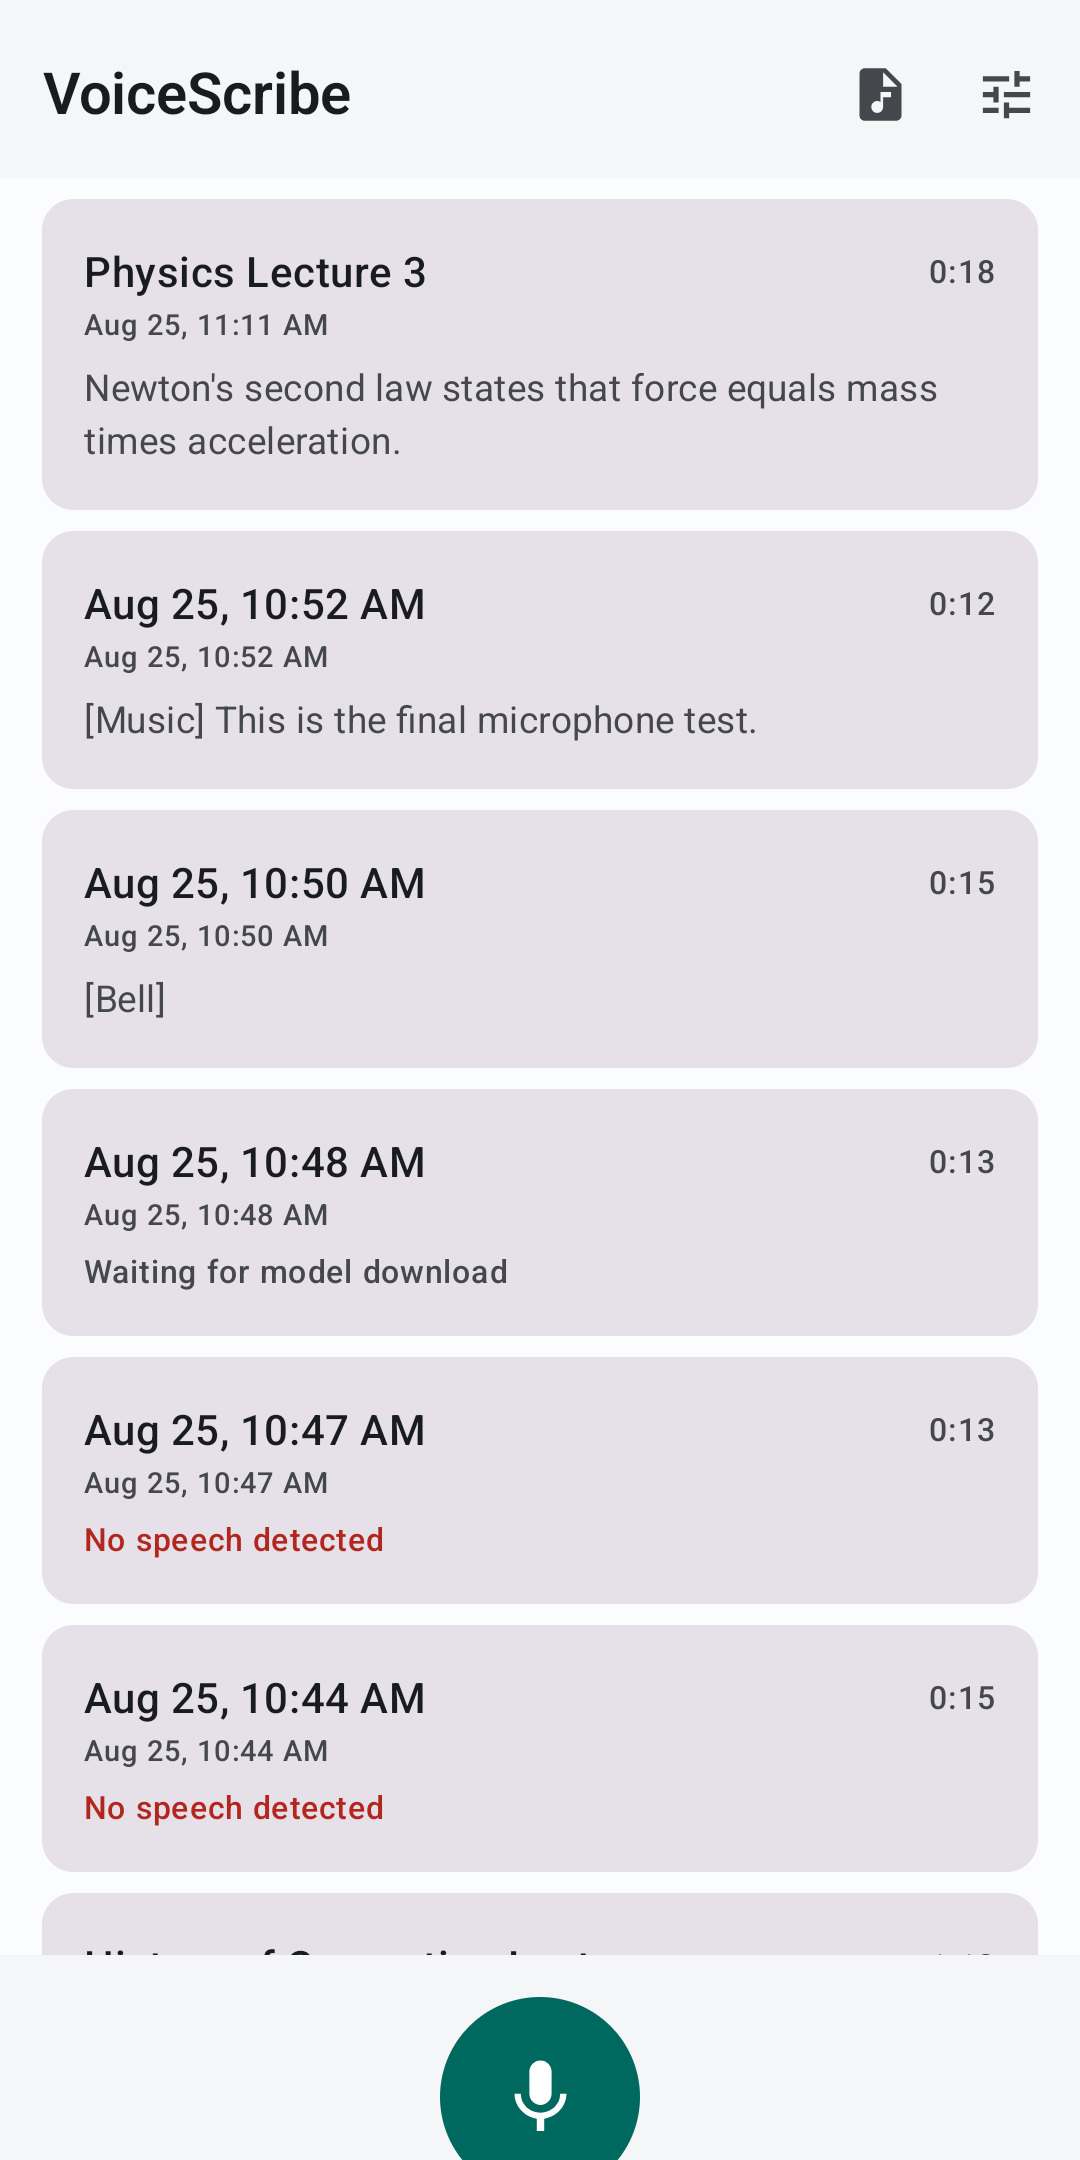
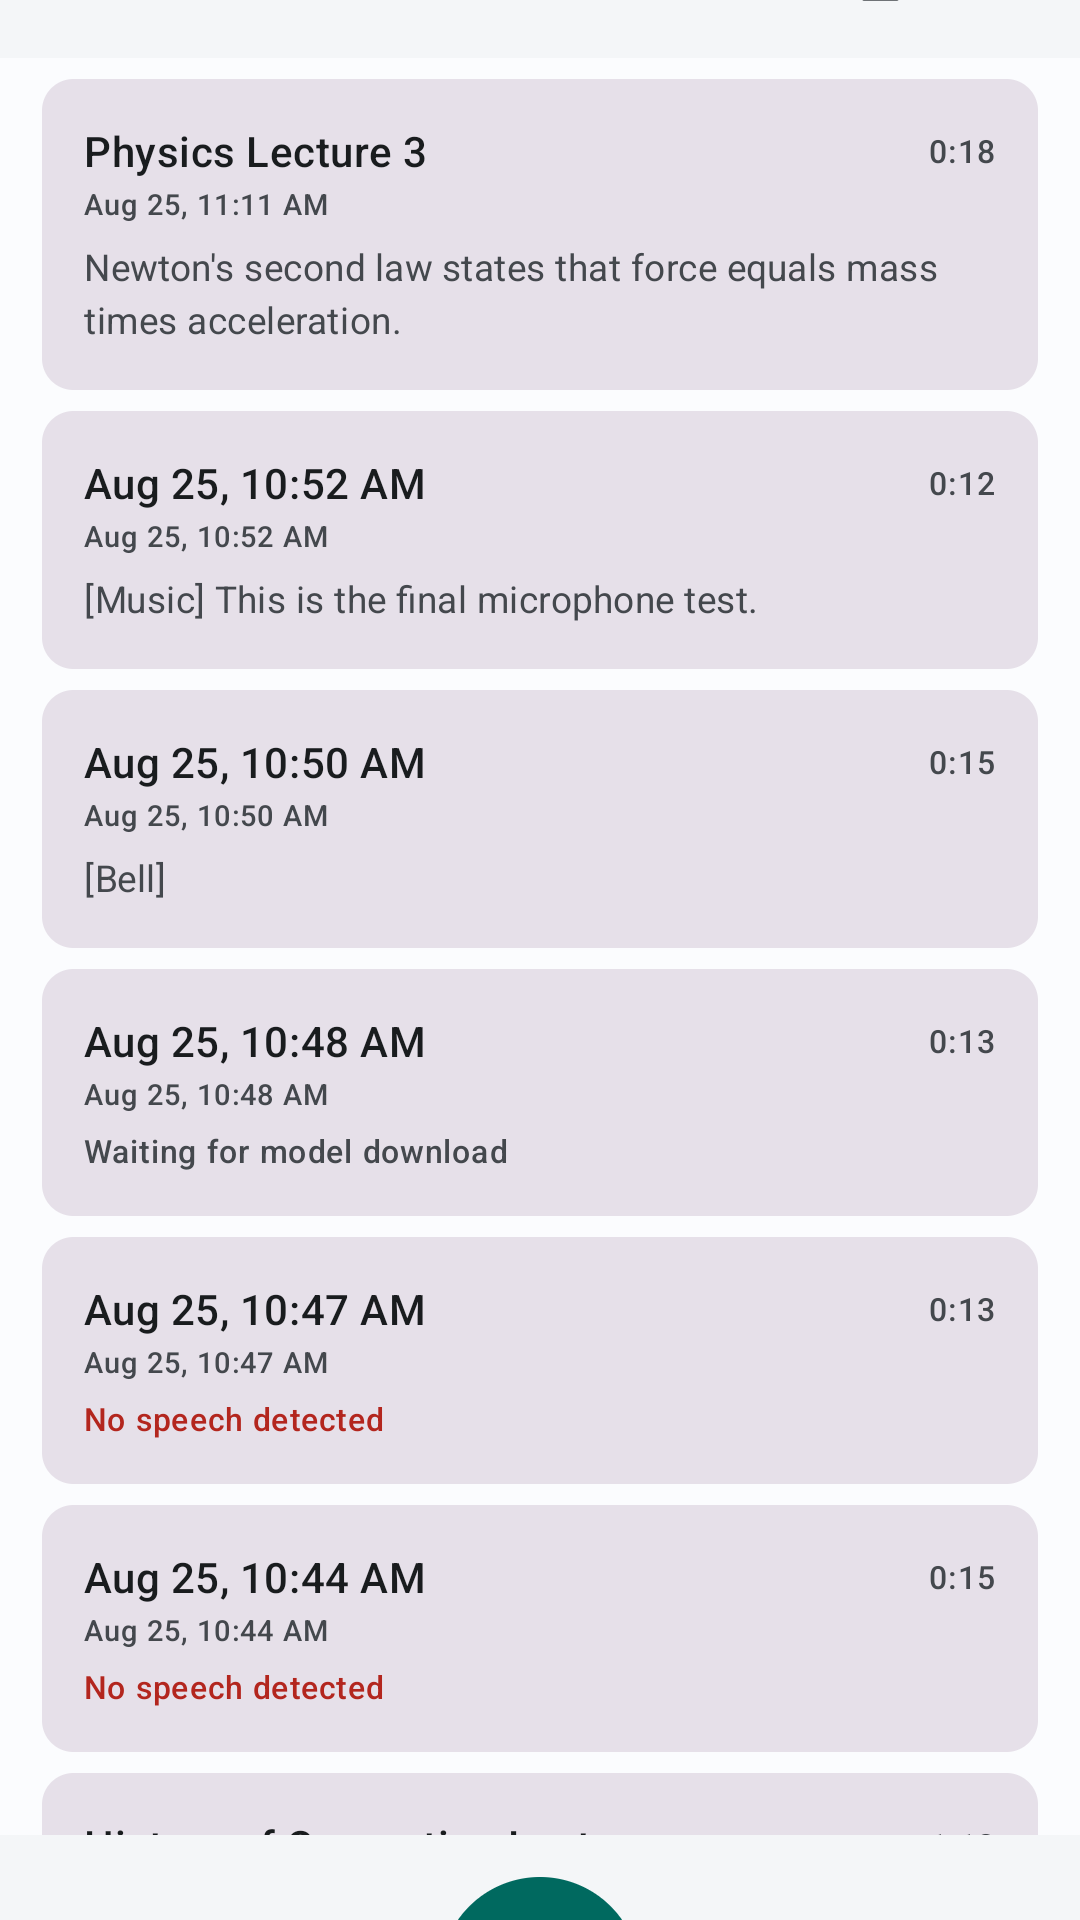
Store kit: 9:16 screenshots, FGS demo video, submission status
- Screenshots re-cropped to 1080x1920 (Play rejects 2:1 phone screenshots)
- Document the foreground-service demo video Play requires before a release
  can be submitted, and how it was recorded
- Mark checklist items completed in the 2026-08-26 submission; note the
  voicescribe_pro product is blocked on merchant-account setup

diff --git a/store/listing.md b/store/listing.md
@@ -111,16 +111,33 @@ lecture recorder — all in one private app.
 
 - `icon-512.png` — hi-res icon (512×512)
 - `feature-graphic-1024x500.png` — feature graphic
-- `screenshots/01-home.png … 06-pro.png` — phone screenshots (1080×2160, 2:1)
+- `screenshots/01-home.png … 06-pro.png` — phone screenshots (1080×1920, 9:16 — Play requires 16:9 or 9:16; 2:1 is rejected)
+
+## Foreground service demo video (required by Play)
+
+Play blocks release submission until each FOREGROUND_SERVICE_* permission is
+declared **with a demo video link**. Ours (unlisted YouTube):
+**https://youtube.com/shorts/kAHv6h5u_mg** — pasted into all three sections
+(data sync, media processing, microphone).
+
+Recorded on an emulator with:
+`adb shell screenrecord --bit-rate 1200000 --time-limit 80 /sdcard/fgs-demo.mp4`
+showing: start recording → home button → ongoing mic notification → stop →
+transcription continues in background with its own notification → transcript.
+Re-record and re-link if the services' behaviour changes.
 
 ## Submission checklist
 
-- [ ] Host privacy policy, paste URL in Play Console
-- [ ] Upload AAB (`./gradlew :app:bundleRelease`), not the APK
-- [ ] Create `voicescribe_pro` in-app product (must exist before Pro purchase works)
-- [ ] Data safety form (answers above)
-- [ ] Foreground-service permission declarations (text above)
-- [ ] Content rating questionnaire (utility app, no objectionable content → Everyone)
-- [ ] Internal testing track first; add license testers for billing tests
+- [x] Host privacy policy, paste URL in Play Console
+- [x] Upload AAB (`./gradlew :app:bundleRelease`), not the APK
+- [ ] Create `voicescribe_pro` in-app product — BLOCKED: needs a Google Payments
+      merchant account (Monetize with Play → set up merchant account) first
+- [x] Data safety form (answers above)
+- [x] Foreground-service permission declarations (+ demo video, see above)
+- [x] Content rating questionnaire → ESRB Everyone / PEGI 3 / USK 0 / IARC 3+
+- [x] Closed testing track ("Alpha"): 177 countries, testers email list
+- [x] Submitted for review (2026-08-26; Google review typically ~7 days)
 - [ ] Verify purchase + restore flows with a license-tester account on a real device
 - [ ] Real-device pass: record → transcript → summary; speaker labels with two real voices
+- [ ] Production access: needs closed test with 12+ opted-in testers for 14+ days,
+      then "Apply for production" on the dashboard
